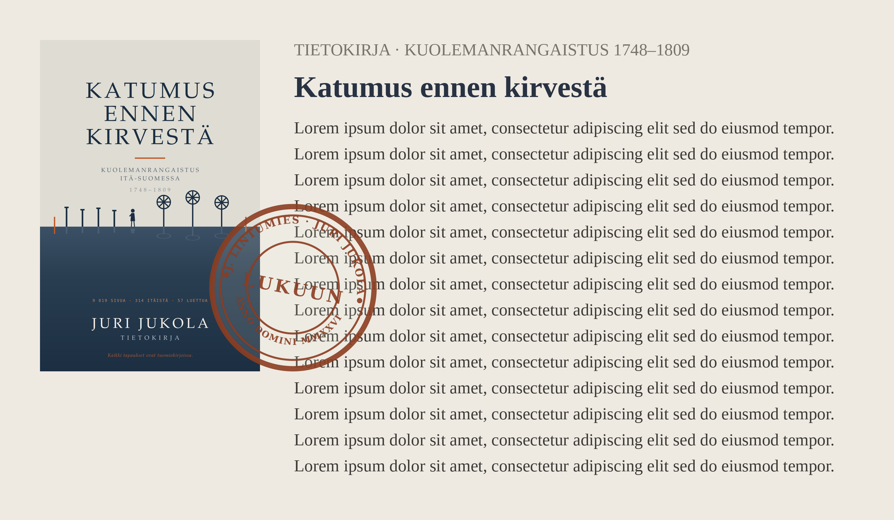
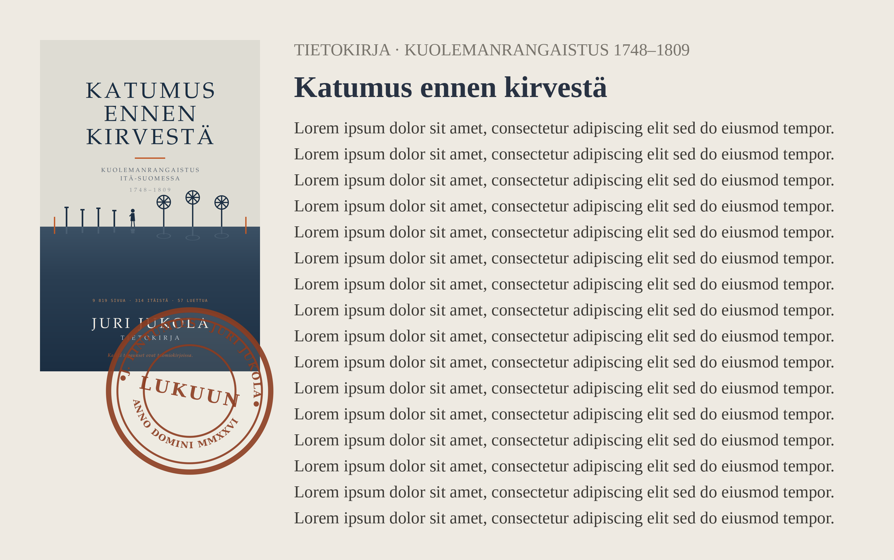
Add files via upload

Changed region(s): [[0.0302, 0.1231, 0.9362, 0.9538], [0.3322, 0.0615, 0.7852, 0.1846]]

diff --git a/index.html b/index.html
@@ -114,7 +114,7 @@ footer a{color:#C8D2DA;border-bottom:1px solid #44586B}
 
 /* leima kannen kulmassa */
 .kansileima{position:relative;display:block;z-index:2}
-.kansileima .leima{position:absolute;right:-62%;bottom:-6%;width:94%;height:auto;
+.kansileima .leima{position:absolute;right:-15%;bottom:-37%;width:94%;height:auto;
   transform:rotate(-11deg);pointer-events:none;mix-blend-mode:multiply}
 
 @media (max-width:680px){
